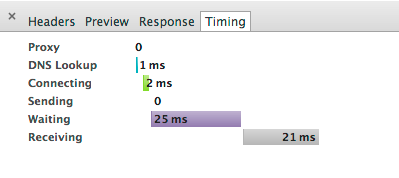
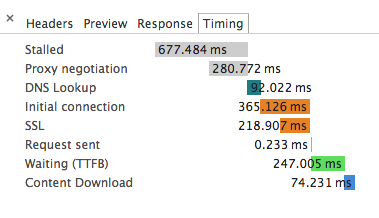
network timing. much better detail. new colors. new screenshot. ref #142

Changed region(s): [[0.0, 0.0281, 1.0, 0.8989], [0.3773, 0.5337, 0.4063, 0.5899]]

diff --git a/docs/network.md b/docs/network.md
@@ -409,38 +409,63 @@ The Timing tab graphs the time spent on the various network phases involved load
 
 The table below lists the network phases shown in the Timing tab and their descriptions.
 
-<!-- TODO: Fix formatting of cells -->
+
+<style>
+  th.stripe, td.stripe {
+    padding: 0;
+  }
+  th.stripe {
+    width: 7px;
+  }
+  th.property {
+    width: 31%;
+  }
+</style>
+
 <table>
 <tr>
-<th style="width:20%">Property</th>
+<th class=stripe></th>
+<th class=property>Property</th>
 <th>Description</th>
 </tr>
 <tr>
-<td><strong>Proxy</strong></td>
+<td style="background: rgb(205, 205, 205)" class=stripe></td>
+<td><strong>Stalled / Blocking</strong></td>
+<td>Time the request spent waiting before it could be sent. This time is inclusive of any time spent in proxy negotiation. Additionally, this time will include when the browser is waiting for an already established connection to become available for re-use, obeying Chrome's <a href="https://code.google.com/p/chromium/issues/detail?id=12066">maximum six</a> TCP connection per origin rule.</td>
+</tr>
+<tr>
+<td style="background: rgb(205, 205, 205)" class=stripe></td>
+<td><strong>Proxy negotiation</strong></td>
 <td>Time spent negotiating with a proxy server connection.</td>
 </tr>
 <tr>
+<td style="background: rgb(31, 124, 131)" class=stripe></td>
 <td><strong>DNS Lookup</strong></td>
-<td>Time spent performing the DNS lookup. You want to minimize DNS look ups.</td>
+<td>Time spent performing the DNS lookup. Every new domain on a page requires a full roundtrip to do the DNS lookup.</td>
 </tr>
 <tr>
-<td><strong>Blocking</strong></td>
-<td>Time the request spent waiting for an already established connection to become available for re-use.</td>
+<td style="background: rgb(229, 130, 38)" class=stripe></td>
+<td><strong>Initial Connection / Connecting</strong></td>
+<td>Time it took to establish a connection, including TCP handshakes/retries and negotiating a secure-socket layer (SSL). </td>
 </tr>
 <tr>
-<td><strong>Connecting</strong></td>
-<td>Time it took to establish a connection, including TCP handshakes/retries, DNS lookup, and time connecting to a proxy or negotiating a secure-socket layer (SSL). </td>
+<td style="background: rgb(229, 130, 38)" class=stripe></td>
+<td><strong>SSL</strong></td>
+<td>Time spent completing a secure-socket layer (SSL) handshake.</td>
 </tr>
 <tr>
-<td><strong>Sending</strong></td>
-<td>Time spent sending the request.</td>
+<td style="background: rgb(95, 221, 95)" class=stripe></td>
+<td><strong>Request sent / Sending</strong></td>
+<td>Time spent issuing the network request. Typically a fraction of a millisecond.</td>
 </tr>
 <tr>
-<td><strong>Waiting</strong></td>
-<td>Time spent waiting for the initial response.</td>
+<td style="background: rgb(95, 221, 95)" class=stripe></td>
+<td><strong>Waiting (TTFB)</strong></td>
+<td>Time spent waiting for the initial response, also known as the Time To First Byte. This time captures the latency of a round trip to the server in addition to the time spent waiting for the server to deliver the response.</td>
 </tr>
 <tr>
-<td><strong>Receiving</strong></td>
+<td style="background: rgb(65, 137, 215)" class=stripe></td>
+<td><strong>Content Download / Receiving</strong></td>
 <td>Time spent receiving the response data. </td>
 </tr>
 </table>
